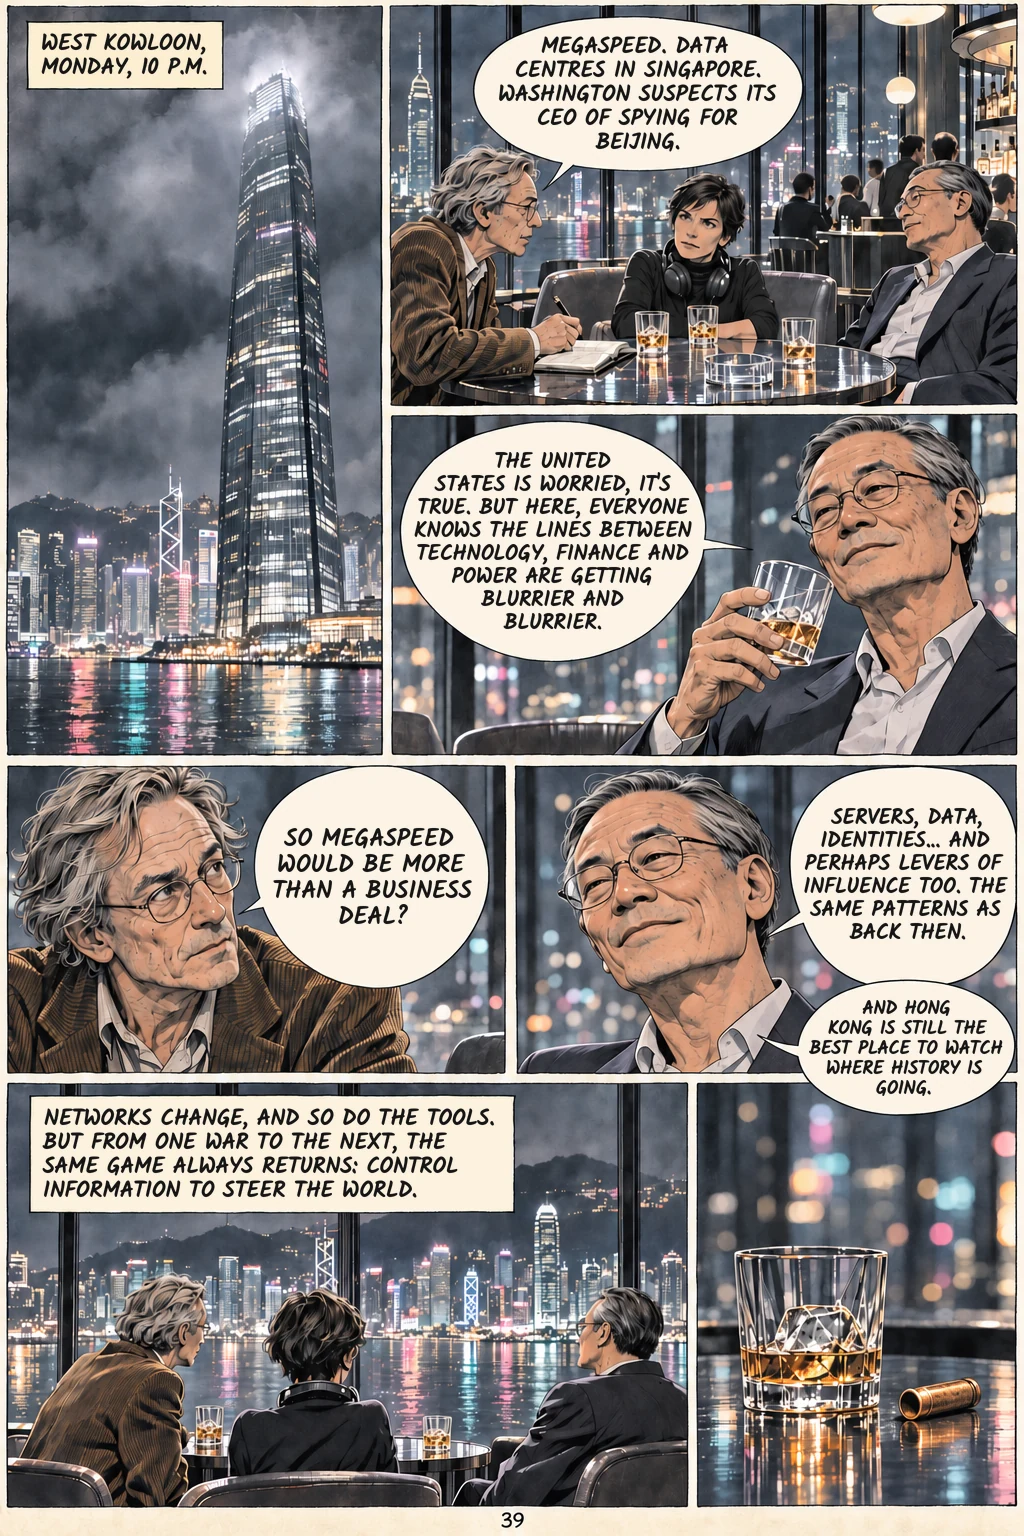
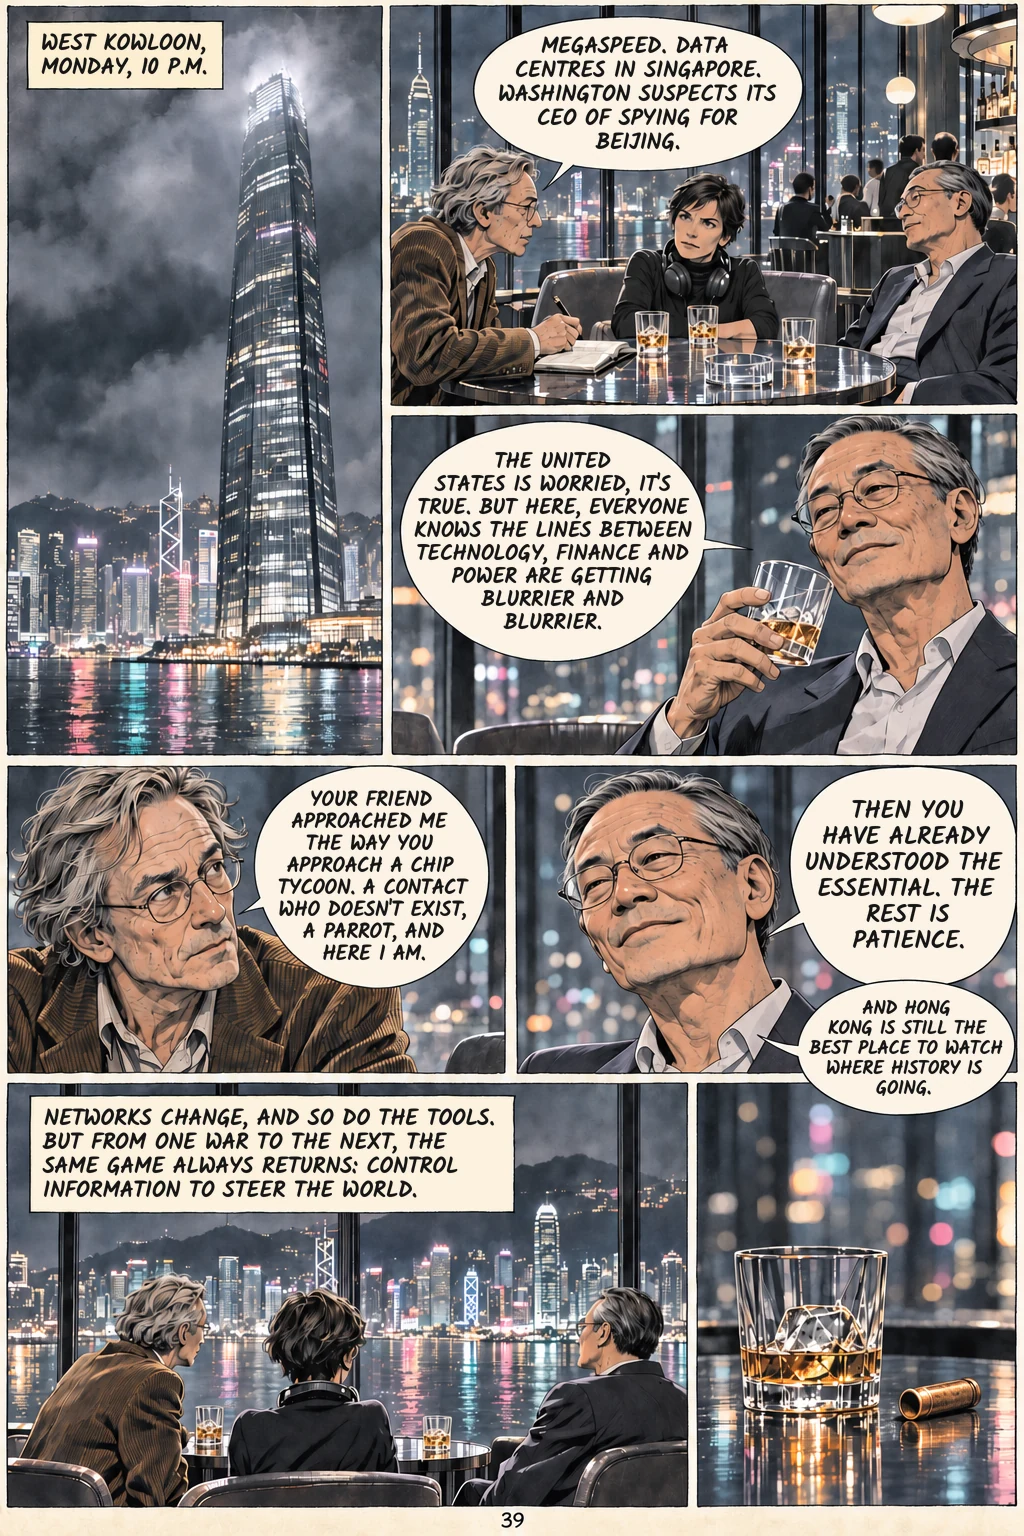
Monsieur X ép. 3, planche 39 : le Journaliste reconnaît la méthode de X, chute de l'homme de l'ENA (FR et EN)
Claude-Session: https://claude.ai/code/session_01NEt4fXoTkRLhfzronFgkmK

Changed region(s): [[0.25, 0.5, 0.4688, 0.625], [0.7812, 0.5, 1.0, 0.625]]

diff --git a/tools/lettering-src/ep3_comic.py b/tools/lettering-src/ep3_comic.py
@@ -201,8 +201,8 @@ PAGES = {
 "p50": [(C,119,45,"WEST KOWLOON,|MONDAY, 10 P.M."),
         (B,634,90,"MEGASPEED. DATA CENTRES IN SINGAPORE. WASHINGTON SUSPECTS ITS CEO OF SPYING FOR BEIJING."),
         (B,553,532,"THE UNITED STATES IS WORRIED, IT'S TRUE. BUT HERE, EVERYONE KNOWS THE LINES BETWEEN TECHNOLOGY, FINANCE AND POWER ARE GETTING BLURRIER AND BLURRIER."),
-        (B,375,871,"SO MEGASPEED|WOULD BE MORE|THAN A BUSINESS|DEAL?"),
-        (B,911,870,"SERVERS, DATA, IDENTITIES... AND PERHAPS LEVERS OF INFLUENCE TOO. THE SAME PATTERNS AS BACK THEN."),
+        (B,375,871,"YOUR FRIEND APPROACHED ME THE WAY YOU APPROACH A CHIP TYCOON. A CONTACT WHO DOESN'T EXIST, A PARROT, AND HERE I AM."),
+        (B,911,870,"THEN YOU HAVE ALREADY UNDERSTOOD THE ESSENTIAL. THE REST IS PATIENCE."),
         (B,910,1042,"AND HONG KONG IS STILL THE BEST PLACE TO WATCH WHERE HISTORY IS GOING."),
         (C,243,1148,"NETWORKS CHANGE, AND SO DO THE TOOLS. BUT FROM ONE WAR TO THE NEXT, THE SAME GAME ALWAYS RETURNS: CONTROL INFORMATION TO STEER THE WORLD.")],
 }
